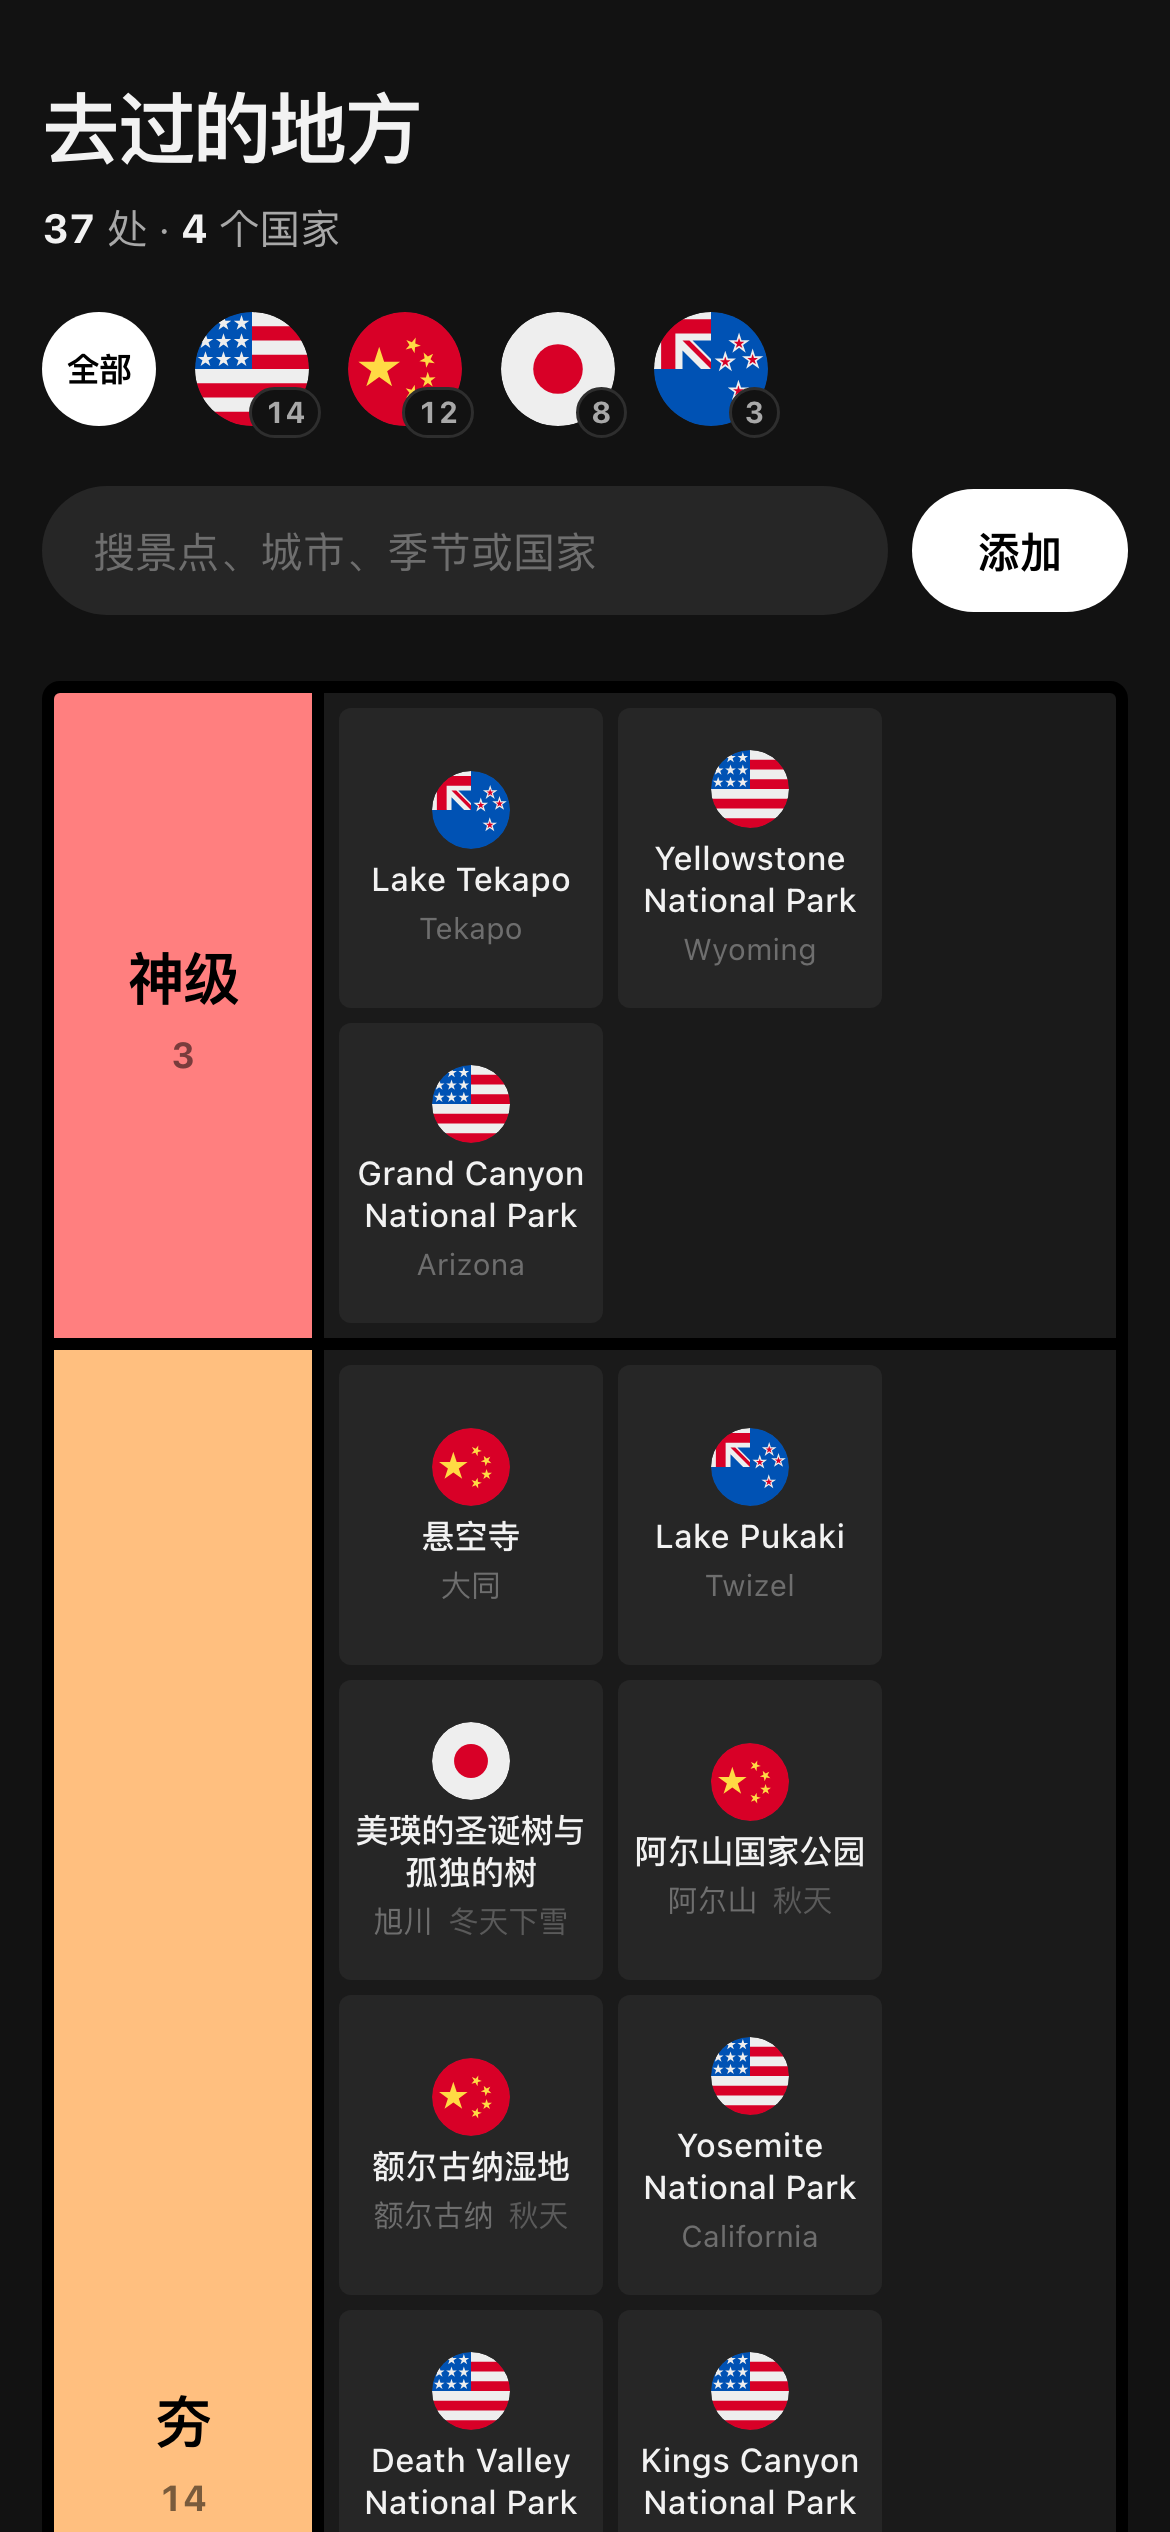
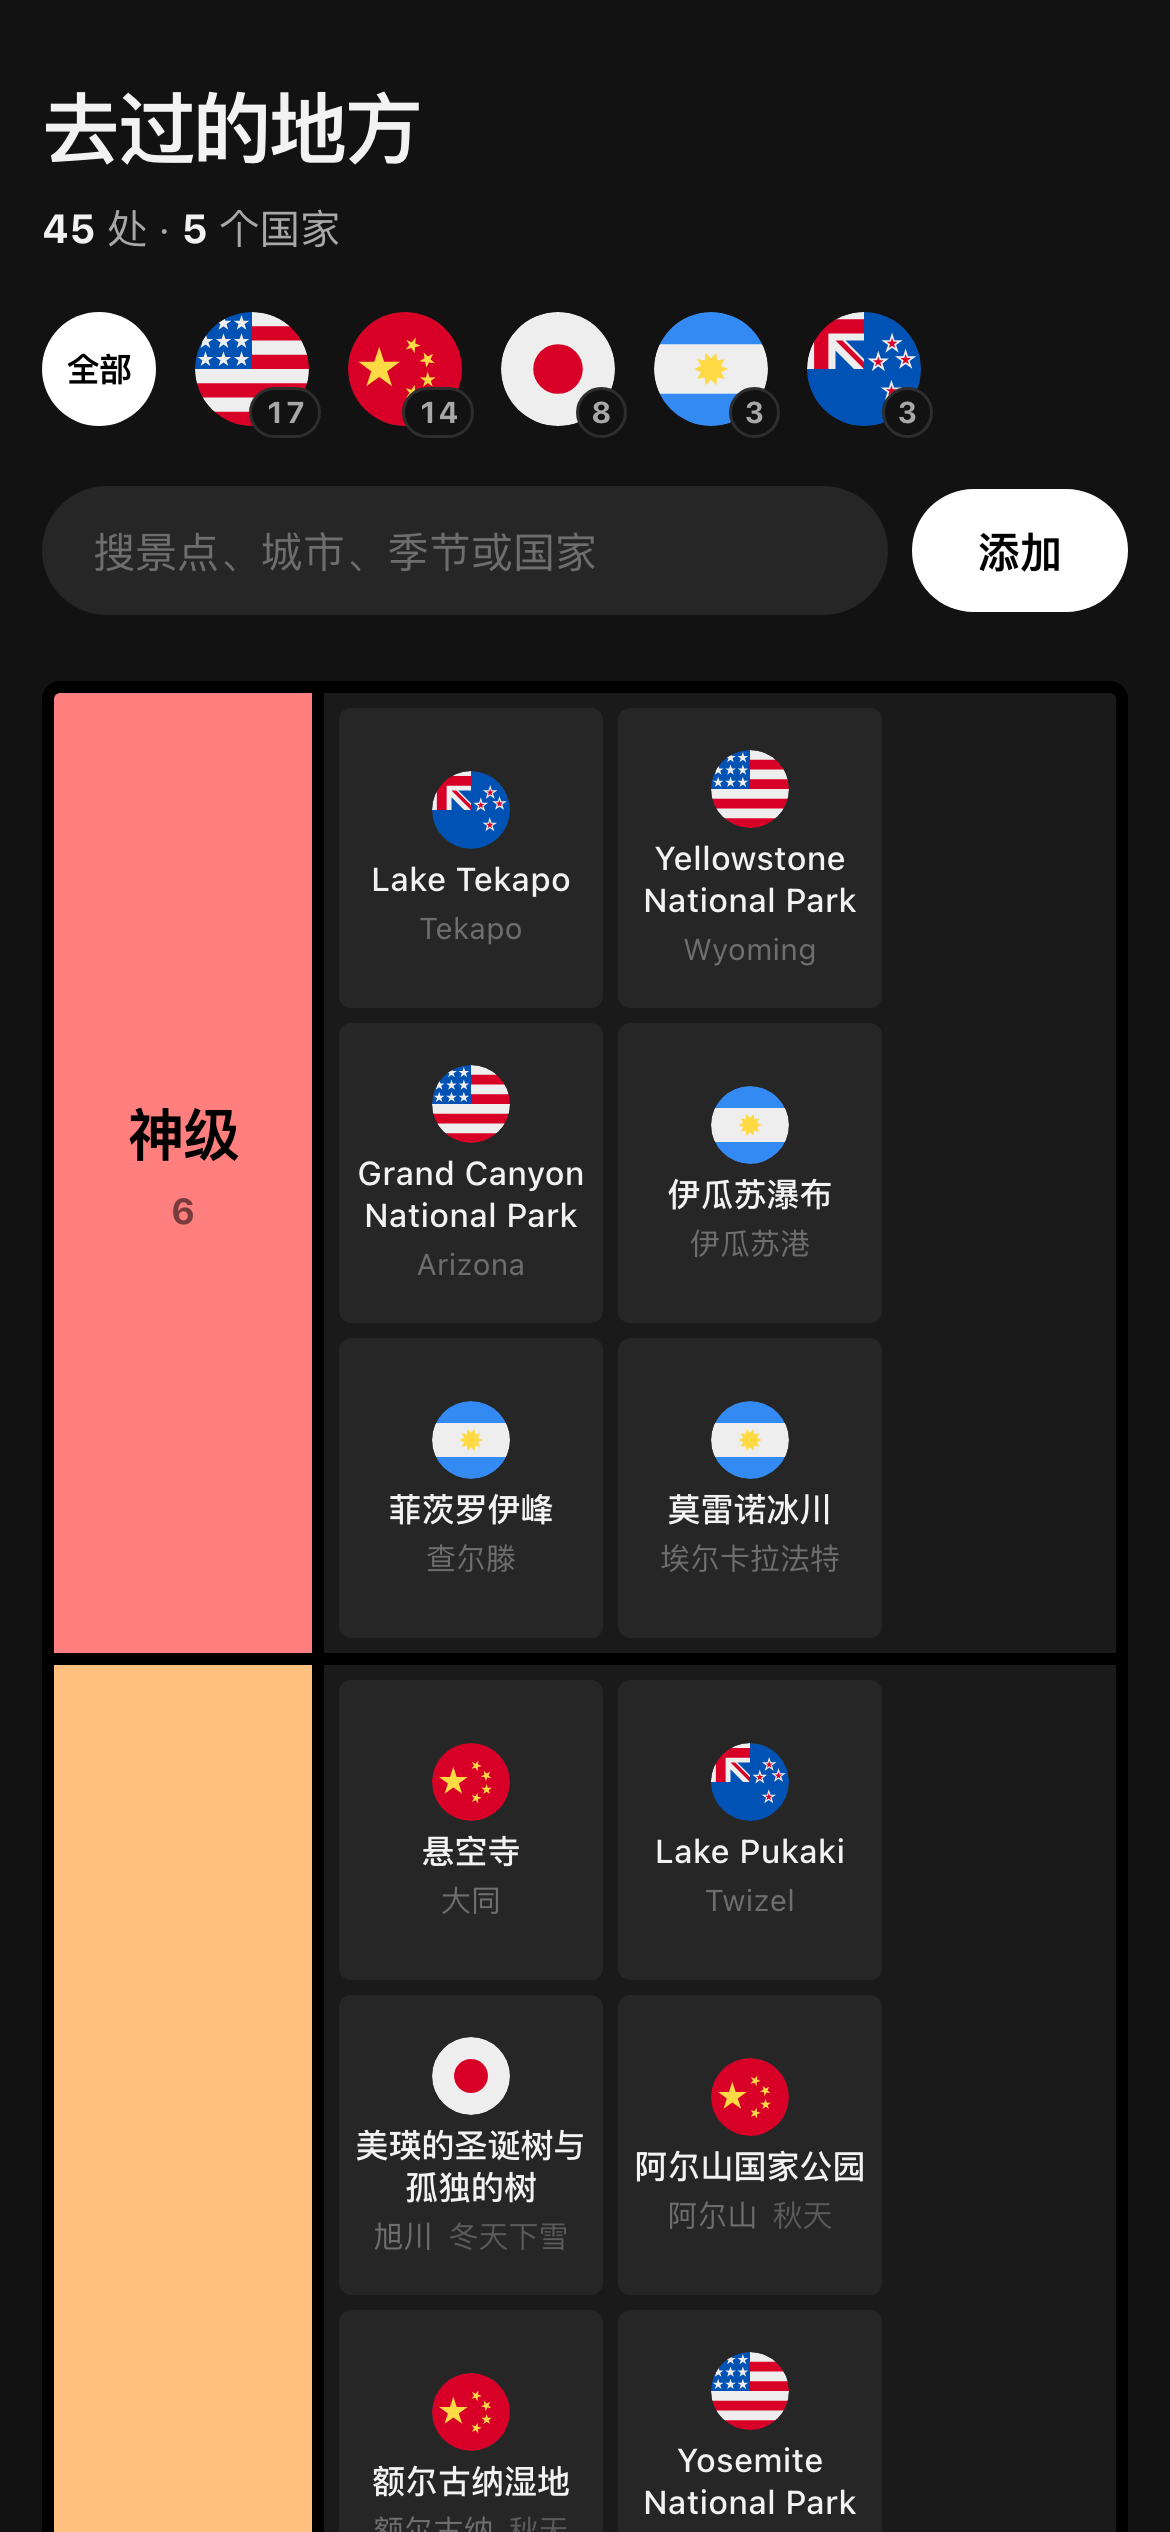
新增 8 处，兼六园去掉城市前缀；阿根廷成为第 5 个国家
神级  伊瓜苏瀑布                   伊瓜苏港      阿根廷
  神级  菲茨罗伊峰                   查尔滕        阿根廷
  神级  莫雷诺冰川                   埃尔卡拉法特  阿根廷
  夯    Lake Tahoe                  California    美国
  夯    Kenai Fjords National Park  Alaska        美国
  夯    Bear Glacier                Alaska        美国
  npc   滴水湖                       上海          中国
  拉完了 朱家角                      上海          中国

  金泽兼六园 → 兼六园（城市栏已有「金泽」）

共 45 处 / 5 个国家：美国 17、中国 14、日本 8、阿根廷 3、新西兰 3。
神级从 3 翻到 6。

阿根廷不属于英语国家，按清单惯例用中文名；Fitz Roy 随之译为菲茨罗伊峰，
与同批的伊瓜苏瀑布、莫雷诺冰川一致。三处填的是门户小镇，都是实打实的市镇。
ar.svg 已验证可从 CDN 加载。

45 条在桌面与手机均无截断、无溢出，视口内国旗全部加载成功。测试 66 项全过。

diff --git a/spots.js b/spots.js
@@ -1,44 +1,52 @@
 /* 景点清单。改这个文件就能更新网站，不用碰 index.html。
-   英语国家的景点用英文原名；中国、日本的用中文。
+   英语国家的景点用英文原名；其余（中国、日本、阿根廷…）用中文。
    season 选填，用来标注去的季节；不填就留空字符串。
    tier 取 shen / hang / top / ren / npc / la
    （神级 / 夯 / 顶级 / 人上人 / npc / 拉完了） */
 window.SPOTS = [
-  { "name": "黄岩石窟"                     , "city": "台州"      , "season": ""        , "country": "中国"  , "tier": "top" },
-  { "name": "云冈石窟"                     , "city": "大同"      , "season": ""        , "country": "中国"  , "tier": "top" },
-  { "name": "悬空寺"                       , "city": "大同"      , "season": ""        , "country": "中国"  , "tier": "hang" },
-  { "name": "户隐神社"                     , "city": "长野"      , "season": ""        , "country": "日本"  , "tier": "ren" },
-  { "name": "金泽城"                       , "city": "金泽"      , "season": ""        , "country": "日本"  , "tier": "top" },
-  { "name": "金泽兼六园"                   , "city": "金泽"      , "season": ""        , "country": "日本"  , "tier": "npc" },
-  { "name": "河口湖"                       , "city": "富士吉田"  , "season": ""        , "country": "日本"  , "tier": "npc" },
-  { "name": "鹤见台"                       , "city": "钏路"      , "season": ""        , "country": "日本"  , "tier": "top" },
-  { "name": "阿寒湖"                       , "city": "钏路"      , "season": ""        , "country": "日本"  , "tier": "top" },
-  { "name": "Point Reyes National Seashore", "city": "California", "season": ""        , "country": "美国"  , "tier": "top" },
-  { "name": "Lake Wanaka"                  , "city": "Wanaka"    , "season": ""        , "country": "新西兰", "tier": "top" },
-  { "name": "Lake Pukaki"                  , "city": "Twizel"    , "season": ""        , "country": "新西兰", "tier": "hang" },
-  { "name": "Lake Tekapo"                  , "city": "Tekapo"    , "season": ""        , "country": "新西兰", "tier": "shen" },
-  { "name": "美瑛的圣诞树与孤独的树"       , "city": "旭川"      , "season": "冬天下雪", "country": "日本"  , "tier": "hang" },
-  { "name": "虎跳峡"                       , "city": "丽江"      , "season": ""        , "country": "中国"  , "tier": "top" },
-  { "name": "玉龙雪山"                     , "city": "丽江"      , "season": ""        , "country": "中国"  , "tier": "top" },
-  { "name": "蓝月谷"                       , "city": "丽江"      , "season": ""        , "country": "中国"  , "tier": "top" },
-  { "name": "洱海"                         , "city": "大理"      , "season": ""        , "country": "中国"  , "tier": "top" },
-  { "name": "阿尔山国家公园"               , "city": "阿尔山"    , "season": "秋天"    , "country": "中国"  , "tier": "hang" },
-  { "name": "莫尔道嘎公园"                 , "city": "额尔古纳"  , "season": ""        , "country": "中国"  , "tier": "top" },
-  { "name": "额尔古纳湿地"                 , "city": "额尔古纳"  , "season": "秋天"    , "country": "中国"  , "tier": "hang" },
-  { "name": "Yellowstone National Park"    , "city": "Wyoming"   , "season": ""        , "country": "美国"  , "tier": "shen" },
-  { "name": "Grand Canyon National Park"   , "city": "Arizona"   , "season": ""        , "country": "美国"  , "tier": "shen" },
-  { "name": "Yosemite National Park"       , "city": "California", "season": ""        , "country": "美国"  , "tier": "hang" },
-  { "name": "Death Valley National Park"   , "city": "California", "season": ""        , "country": "美国"  , "tier": "hang" },
-  { "name": "Kings Canyon National Park"   , "city": "California", "season": ""        , "country": "美国"  , "tier": "hang" },
-  { "name": "Arches National Park"         , "city": "Utah"      , "season": ""        , "country": "美国"  , "tier": "hang" },
-  { "name": "Niagara Falls"                , "city": "New York"  , "season": ""        , "country": "美国"  , "tier": "hang" },
-  { "name": "Sequoia National Park"        , "city": "California", "season": ""        , "country": "美国"  , "tier": "top" },
-  { "name": "Acadia National Park"         , "city": "Maine"     , "season": ""        , "country": "美国"  , "tier": "hang" },
-  { "name": "Bryce Canyon National Park"   , "city": "Utah"      , "season": ""        , "country": "美国"  , "tier": "hang" },
-  { "name": "Grand Teton National Park"    , "city": "Wyoming"   , "season": ""        , "country": "美国"  , "tier": "hang" },
-  { "name": "Monument Valley"              , "city": "Arizona"   , "season": ""        , "country": "美国"  , "tier": "hang" },
-  { "name": "Pinnacles National Park"      , "city": "California", "season": ""        , "country": "美国"  , "tier": "ren" },
-  { "name": "函馆山"                       , "city": "函馆"      , "season": ""        , "country": "日本"  , "tier": "top" },
-  { "name": "上海之鱼"                     , "city": "上海"      , "season": ""        , "country": "中国"  , "tier": "la" },
-  { "name": "瘦西湖"                       , "city": "扬州"      , "season": ""        , "country": "中国"  , "tier": "npc" }
+  { "name": "黄岩石窟"                     , "city": "台州"        , "season": ""        , "country": "中国"  , "tier": "top" },
+  { "name": "云冈石窟"                     , "city": "大同"        , "season": ""        , "country": "中国"  , "tier": "top" },
+  { "name": "悬空寺"                       , "city": "大同"        , "season": ""        , "country": "中国"  , "tier": "hang" },
+  { "name": "户隐神社"                     , "city": "长野"        , "season": ""        , "country": "日本"  , "tier": "ren" },
+  { "name": "金泽城"                       , "city": "金泽"        , "season": ""        , "country": "日本"  , "tier": "top" },
+  { "name": "兼六园"                       , "city": "金泽"        , "season": ""        , "country": "日本"  , "tier": "npc" },
+  { "name": "河口湖"                       , "city": "富士吉田"    , "season": ""        , "country": "日本"  , "tier": "npc" },
+  { "name": "鹤见台"                       , "city": "钏路"        , "season": ""        , "country": "日本"  , "tier": "top" },
+  { "name": "阿寒湖"                       , "city": "钏路"        , "season": ""        , "country": "日本"  , "tier": "top" },
+  { "name": "Point Reyes National Seashore", "city": "California"  , "season": ""        , "country": "美国"  , "tier": "top" },
+  { "name": "Lake Wanaka"                  , "city": "Wanaka"      , "season": ""        , "country": "新西兰", "tier": "top" },
+  { "name": "Lake Pukaki"                  , "city": "Twizel"      , "season": ""        , "country": "新西兰", "tier": "hang" },
+  { "name": "Lake Tekapo"                  , "city": "Tekapo"      , "season": ""        , "country": "新西兰", "tier": "shen" },
+  { "name": "美瑛的圣诞树与孤独的树"       , "city": "旭川"        , "season": "冬天下雪", "country": "日本"  , "tier": "hang" },
+  { "name": "虎跳峡"                       , "city": "丽江"        , "season": ""        , "country": "中国"  , "tier": "top" },
+  { "name": "玉龙雪山"                     , "city": "丽江"        , "season": ""        , "country": "中国"  , "tier": "top" },
+  { "name": "蓝月谷"                       , "city": "丽江"        , "season": ""        , "country": "中国"  , "tier": "top" },
+  { "name": "洱海"                         , "city": "大理"        , "season": ""        , "country": "中国"  , "tier": "top" },
+  { "name": "阿尔山国家公园"               , "city": "阿尔山"      , "season": "秋天"    , "country": "中国"  , "tier": "hang" },
+  { "name": "莫尔道嘎公园"                 , "city": "额尔古纳"    , "season": ""        , "country": "中国"  , "tier": "top" },
+  { "name": "额尔古纳湿地"                 , "city": "额尔古纳"    , "season": "秋天"    , "country": "中国"  , "tier": "hang" },
+  { "name": "Yellowstone National Park"    , "city": "Wyoming"     , "season": ""        , "country": "美国"  , "tier": "shen" },
+  { "name": "Grand Canyon National Park"   , "city": "Arizona"     , "season": ""        , "country": "美国"  , "tier": "shen" },
+  { "name": "Yosemite National Park"       , "city": "California"  , "season": ""        , "country": "美国"  , "tier": "hang" },
+  { "name": "Death Valley National Park"   , "city": "California"  , "season": ""        , "country": "美国"  , "tier": "hang" },
+  { "name": "Kings Canyon National Park"   , "city": "California"  , "season": ""        , "country": "美国"  , "tier": "hang" },
+  { "name": "Arches National Park"         , "city": "Utah"        , "season": ""        , "country": "美国"  , "tier": "hang" },
+  { "name": "Niagara Falls"                , "city": "New York"    , "season": ""        , "country": "美国"  , "tier": "hang" },
+  { "name": "Sequoia National Park"        , "city": "California"  , "season": ""        , "country": "美国"  , "tier": "top" },
+  { "name": "Acadia National Park"         , "city": "Maine"       , "season": ""        , "country": "美国"  , "tier": "hang" },
+  { "name": "Bryce Canyon National Park"   , "city": "Utah"        , "season": ""        , "country": "美国"  , "tier": "hang" },
+  { "name": "Grand Teton National Park"    , "city": "Wyoming"     , "season": ""        , "country": "美国"  , "tier": "hang" },
+  { "name": "Monument Valley"              , "city": "Arizona"     , "season": ""        , "country": "美国"  , "tier": "hang" },
+  { "name": "Pinnacles National Park"      , "city": "California"  , "season": ""        , "country": "美国"  , "tier": "ren" },
+  { "name": "函馆山"                       , "city": "函馆"        , "season": ""        , "country": "日本"  , "tier": "top" },
+  { "name": "上海之鱼"                     , "city": "上海"        , "season": ""        , "country": "中国"  , "tier": "la" },
+  { "name": "瘦西湖"                       , "city": "扬州"        , "season": ""        , "country": "中国"  , "tier": "npc" },
+  { "name": "Lake Tahoe"                   , "city": "California"  , "season": ""        , "country": "美国"  , "tier": "hang" },
+  { "name": "Kenai Fjords National Park"   , "city": "Alaska"      , "season": ""        , "country": "美国"  , "tier": "hang" },
+  { "name": "Bear Glacier"                 , "city": "Alaska"      , "season": ""        , "country": "美国"  , "tier": "hang" },
+  { "name": "伊瓜苏瀑布"                   , "city": "伊瓜苏港"    , "season": ""        , "country": "阿根廷", "tier": "shen" },
+  { "name": "菲茨罗伊峰"                   , "city": "查尔滕"      , "season": ""        , "country": "阿根廷", "tier": "shen" },
+  { "name": "莫雷诺冰川"                   , "city": "埃尔卡拉法特", "season": ""        , "country": "阿根廷", "tier": "shen" },
+  { "name": "滴水湖"                       , "city": "上海"        , "season": ""        , "country": "中国"  , "tier": "npc" },
+  { "name": "朱家角"                       , "city": "上海"        , "season": ""        , "country": "中国"  , "tier": "la" }
 ];
